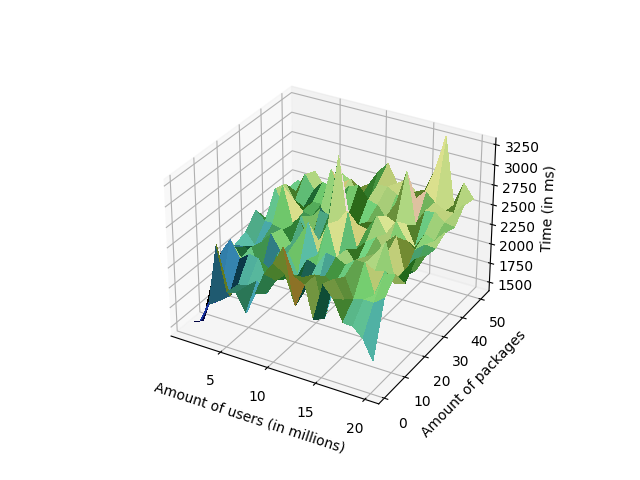
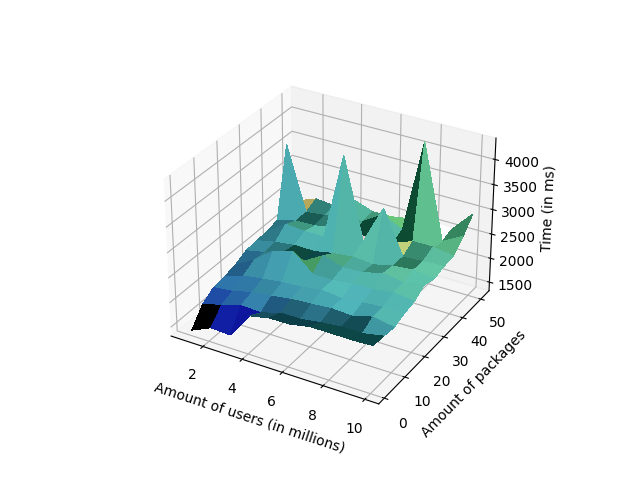
updated varaible input

diff --git a/database_size_vs_amount_of_packages_tester.py b/database_size_vs_amount_of_packages_tester.py
@@ -94,7 +94,7 @@ z = []
 
 # amount of users in millions
 a_min = 1
-a_max = 20
+a_max = 10
 
 # amount of packages
 p_min = 1
@@ -102,7 +102,8 @@ p_max = 50
 p_inc_size = 5
 
 # amount of iteration for each combination
-i_tot = 3
+i_tot = 100
+
 
 for database_size in range(a_min*1000000, a_max*1000000+1000000, 1000000):
     print(database_size/1000000)
@@ -291,8 +292,8 @@ for database_size in range(a_min*1000000, a_max*1000000+1000000, 1000000):
             while client_status != CLIENT_DONE:
                 ms_count += 1
                 update_track_status()
-            if ms_count < 5000:
-                results.append(ms_count)
+            # if ms_count < 5000:
+            results.append(ms_count)
 
         average = sum(results)/len(results)
         # print("AVERAGE: ", average, "ms", sep='')
